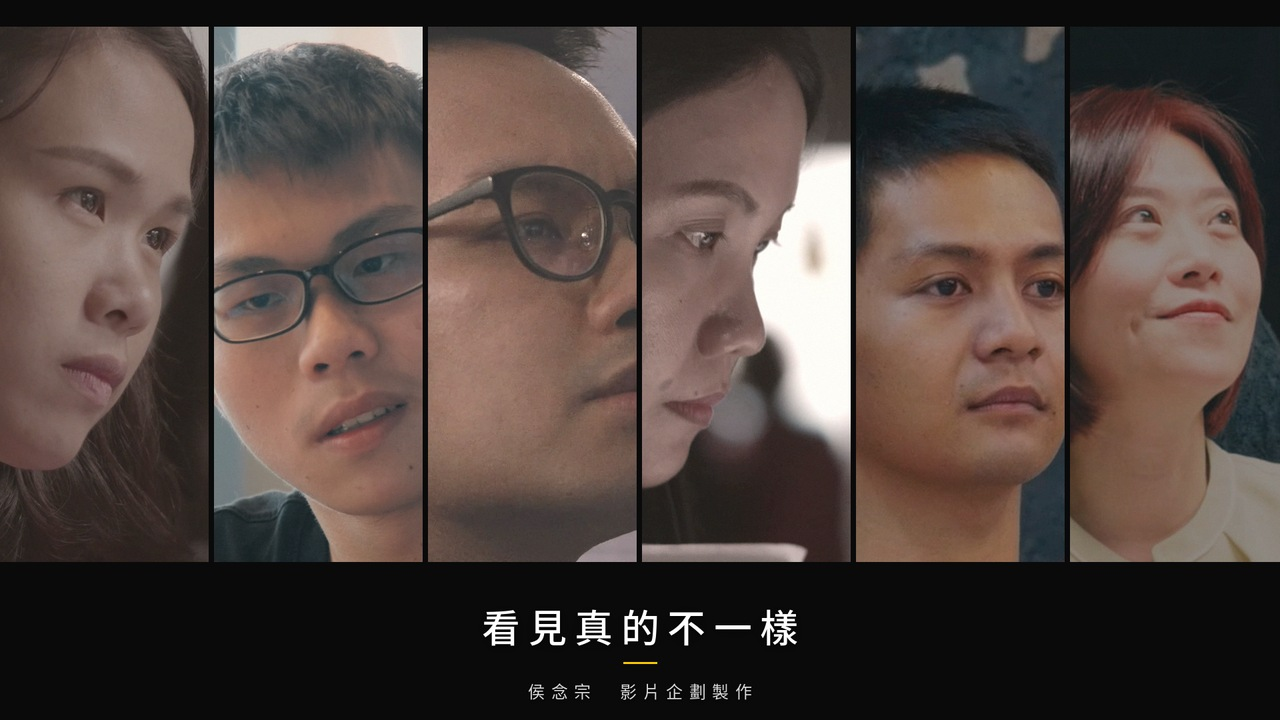
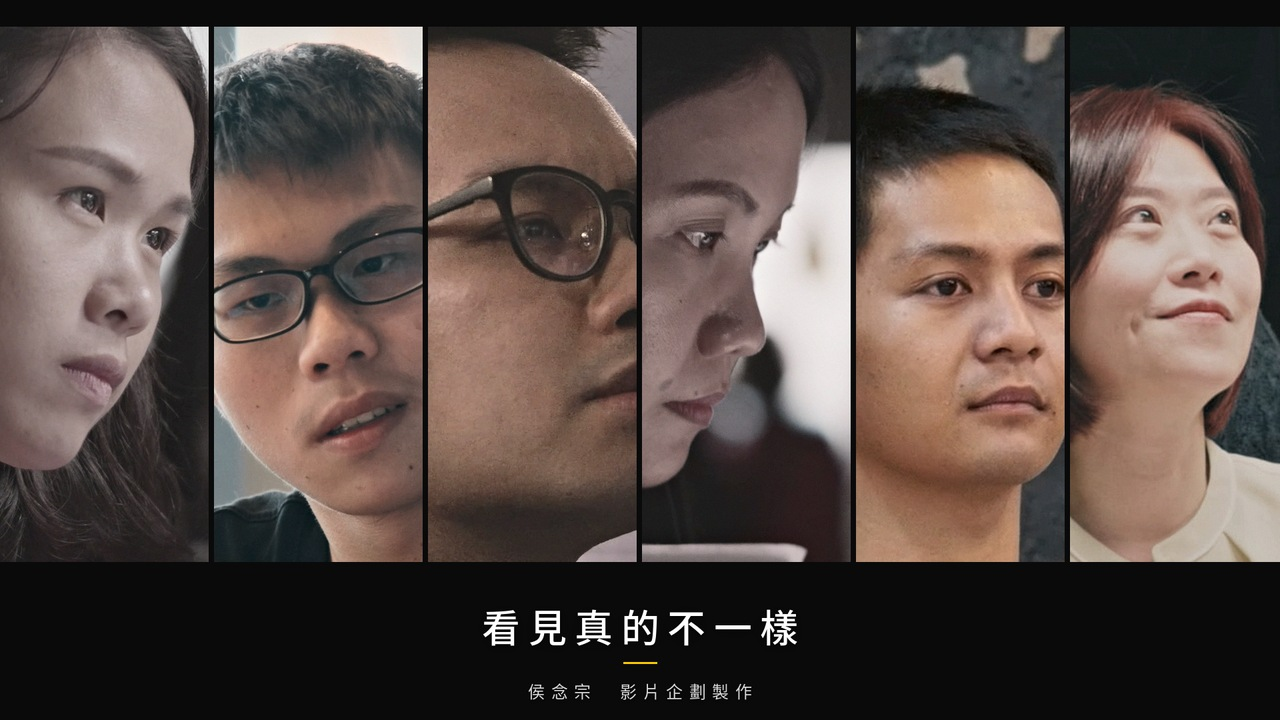
首頁自我介紹片換成 v23（yeMSyK9AruI，1:28），封面換縮圖 Y2

diff --git a/en.html b/en.html
@@ -540,8 +540,8 @@ footer.copy a{white-space:nowrap}
     <div class="heroleft">
       <p class="who fade">Promotional videos, introductions and event coverage are my everyday work.<br>I also make documentaries that take months.</p>
       <figure class="heroshot fade">
-        <button class="play" type="button" data-yt="lXG4AqtU6vc" aria-label="Play the self-introduction video, 1:16"><img src="home-assets/intro.jpg" width="1280" height="720" alt="Six faces intently watching something; text below in Chinese: See what is truly different, Marty Hou, video planning and production"><span class="pbtn" aria-hidden="true"></span></button>
-        <figcaption>Self-introduction, 1:16 (in Chinese).</figcaption>
+        <button class="play" type="button" data-yt="yeMSyK9AruI" aria-label="Play the self-introduction video, 1:28"><img src="home-assets/intro.jpg" width="1280" height="720" alt="Six faces intently watching something; text below in Chinese: See what is truly different, Marty Hou, video planning and production"><span class="pbtn" aria-hidden="true"></span></button>
+        <figcaption>Self-introduction, 1:28 (in Chinese).</figcaption>
       </figure>
     </div>
   </div>

diff --git a/index.html b/index.html
@@ -522,8 +522,8 @@ footer.copy a{color:#111;font-weight:700;font-size:14px;cursor:pointer;text-deco
     <div class="heroleft">
       <p class="who fade">宣傳、介紹、活動紀錄，是我平常在做的。<br>花上幾個月的紀錄片，我也做。</p>
       <figure class="heroshot fade">
-        <button class="play" type="button" data-yt="lXG4AqtU6vc" aria-label="播放自我介紹影片，1 分 16 秒"><img src="home-assets/intro.jpg" width="1280" height="720" alt="六個人專注看著什麼的臉，下方字：看見真的不一樣，侯念宗，影片企劃製作"><span class="pbtn" aria-hidden="true"></span></button>
-        <figcaption>自我介紹，1 分 16 秒。</figcaption>
+        <button class="play" type="button" data-yt="yeMSyK9AruI" aria-label="播放自我介紹影片，1 分 28 秒"><img src="home-assets/intro.jpg" width="1280" height="720" alt="六個人專注看著什麼的臉，下方字：看見真的不一樣，侯念宗，影片企劃製作"><span class="pbtn" aria-hidden="true"></span></button>
+        <figcaption>自我介紹，1 分 28 秒。</figcaption>
       </figure>
     </div>
   </div>
